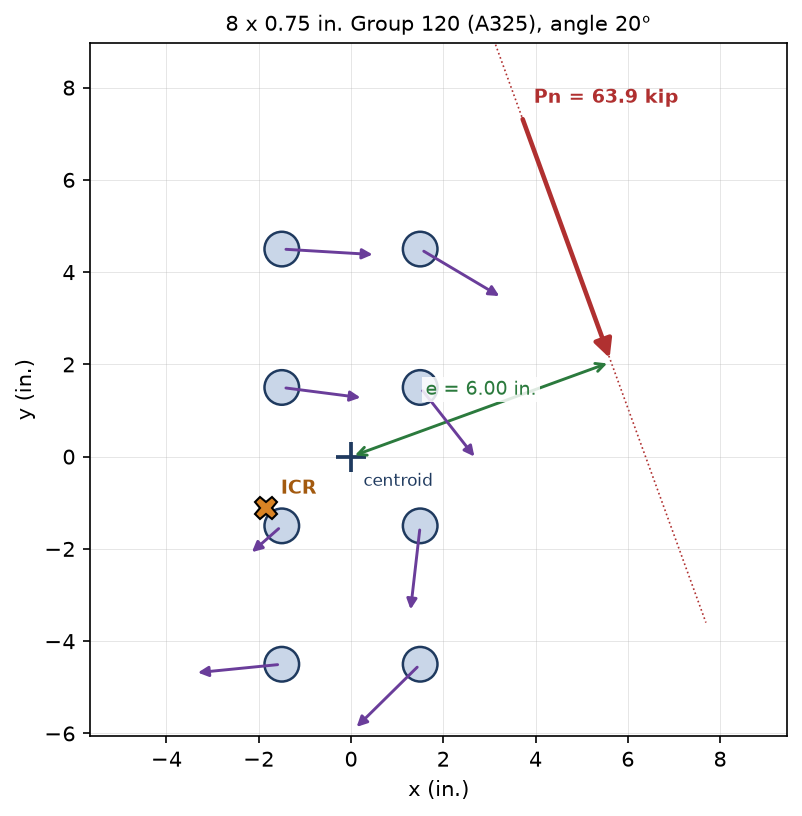
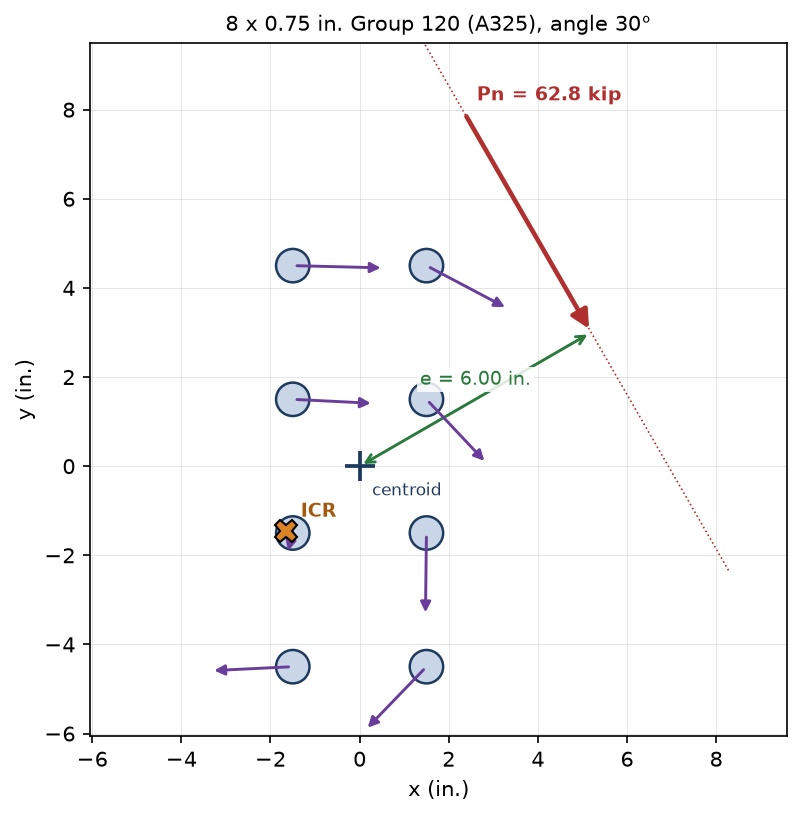
Merge bolt group examples into a single example with a plot

diff --git a/examples/05_bracket_bolt_group.py b/examples/05_bracket_bolt_group.py
@@ -1,4 +1,13 @@
-"""Check an eccentrically loaded bracket bolt group by the ICR method (LRFD)."""
+"""Check an eccentrically loaded bracket bolt group by the ICR method (LRFD) and plot it.
+
+The plot needs matplotlib, an optional dependency (`uv sync` or `pip install steel-design[plot]`).
+"""
+
+from pathlib import Path
+
+import matplotlib
+
+matplotlib.use("Agg")
 
 from steel_design import Q_
 from steel_design.bolts import A325, Bolt, BoltGroup, Ply, SlipClass
@@ -28,3 +37,9 @@ print(f"C = {result.C:.2f}, phi Pn = {result.Pn:~P.1f}, Pu / phi Pn = {group.che
 print(f"At 30 degrees: C = {group.icr_coefficient(e, angle=30):.2f}")
 odd = BoltGroup([(Q_(x, "in"), Q_(y, "in")) for x, y in [(0, 0), (3, 0), (6, 0), (0, 4), (6, 4)]], bolt)
 print(f"Arbitrary group, load at (9, 2) in.: phi Pn = {odd.icr_strength((Q_(9, 'in'), Q_(2, 'in'))).Pn:~P.1f}")
+
+# Plot the group, load line, eccentricity, ICR and bolt forces for the inclined load
+ax = group.plot(e=e, angle=30)
+out = Path(__file__).with_name("05_bracket_bolt_group.png")
+ax.figure.savefig(out, dpi=150, bbox_inches="tight")
+print(f"Saved {out.name}")

diff --git a/examples/README.md b/examples/README.md
@@ -12,8 +12,7 @@ $ uv run python examples/01_floor_beam.py
 | [02_hss_column.py](02_hss_column.py) | Compression (Chapter E) of an HSS column, slenderness classification and effective length |
 | [03_tension_brace.py](03_tension_brace.py) | Tension (Chapter D) of a single-angle brace with a net area and shear lag factor |
 | [04_plate_girder.py](04_plate_girder.py) | A built-up singly symmetric girder: classification, flexure, and shear with and without stiffeners |
-| [05_bracket_bolt_group.py](05_bracket_bolt_group.py) | Bolt strengths (Section J3) and an eccentrically loaded bolt group by the ICR method |
-| [06_bolt_group_plot.py](06_bolt_group_plot.py) | Saves an image of an eccentric bolt group (needs `matplotlib`) |
+| [05_bracket_bolt_group.py](05_bracket_bolt_group.py) | Bolt strengths (Section J3) and an eccentrically loaded bolt group by the ICR method, with a plot (needs `matplotlib`) |
 
 The library has no demand or load-combination features. The required strengths in each
 example are inputs written at the top of the script. Combined forces (Chapter H) are not yet

diff --git a/docs/examples.md b/docs/examples.md
@@ -41,17 +41,10 @@ F4, and shear with and without transverse stiffeners (tension field action).
 
 ## Bracket bolt group: ICR
 
-Single-bolt strengths, bearing and tearout, and the ICR strength of a bolt group for a vertical
-and an inclined eccentric load.
+Single-bolt strengths, bearing and tearout, the ICR strength of a bolt group for a vertical
+and an inclined eccentric load, and an image of the group (needs the optional matplotlib
+dependency).
 
 ```{literalinclude} ../examples/05_bracket_bolt_group.py
-:language: python
-```
-
-## Plotting a bolt group
-
-Saves an image of an eccentrically loaded group (needs the optional matplotlib dependency).
-
-```{literalinclude} ../examples/06_bolt_group_plot.py
 :language: python
 ```
